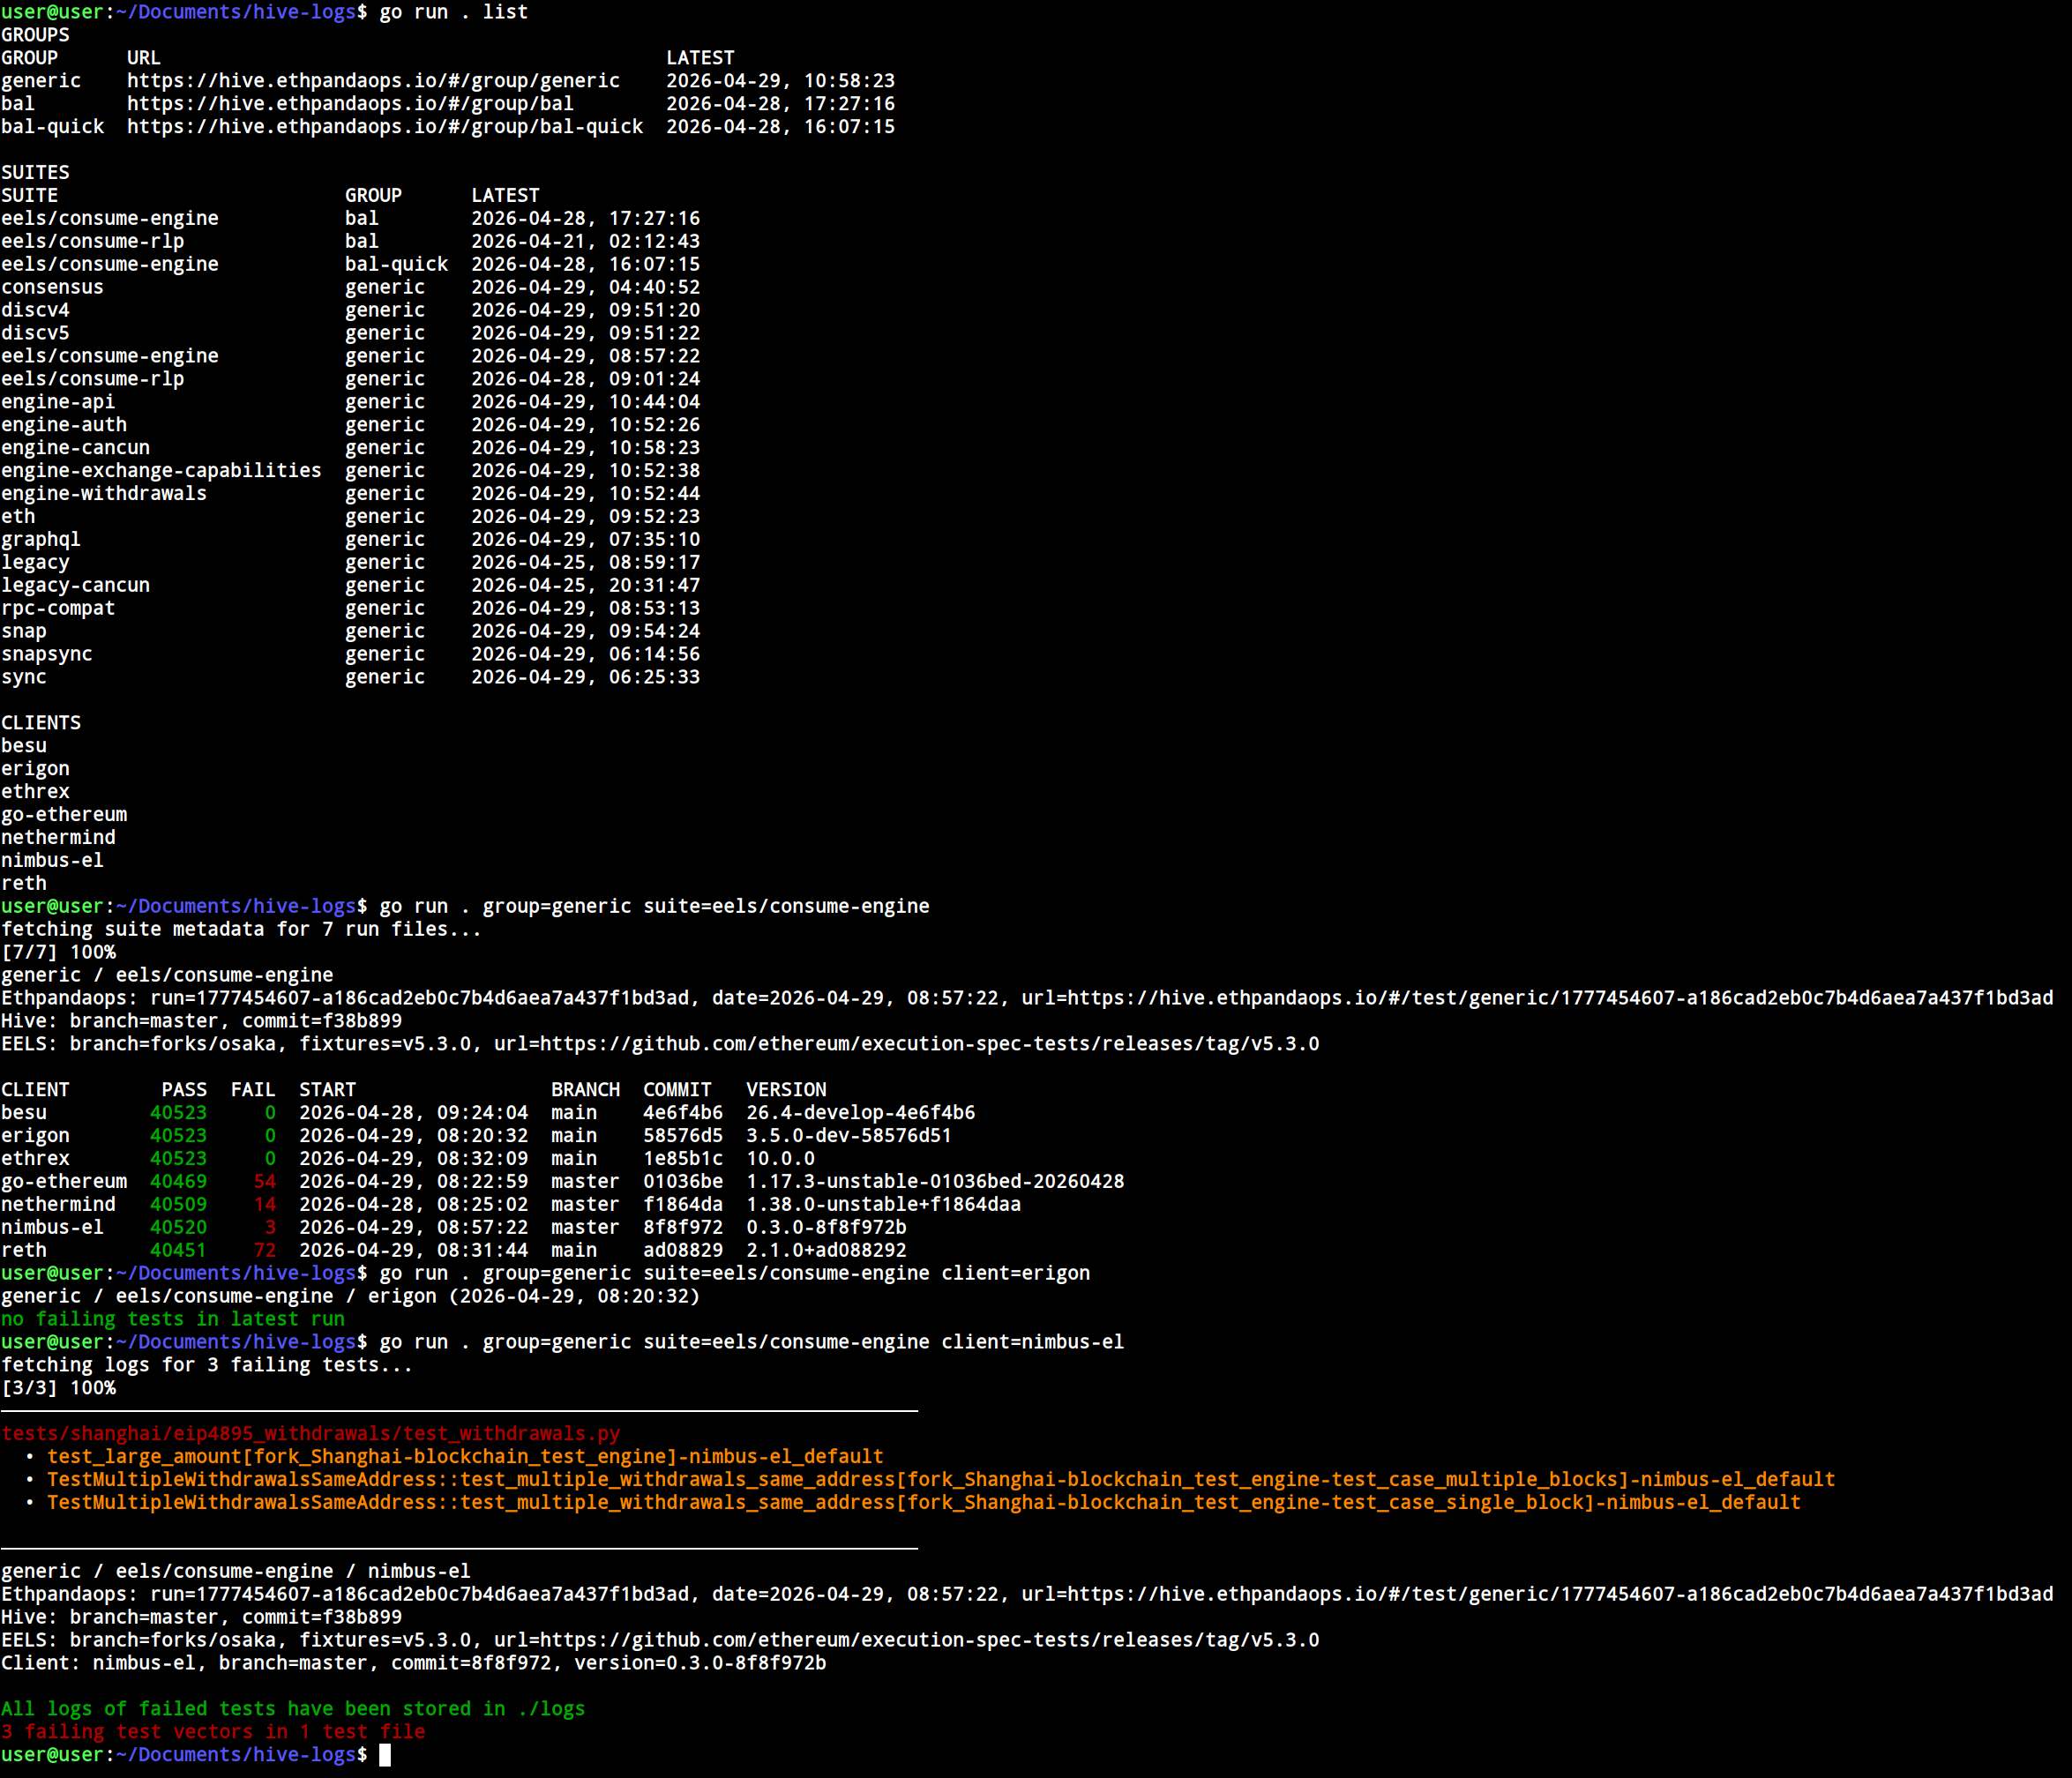
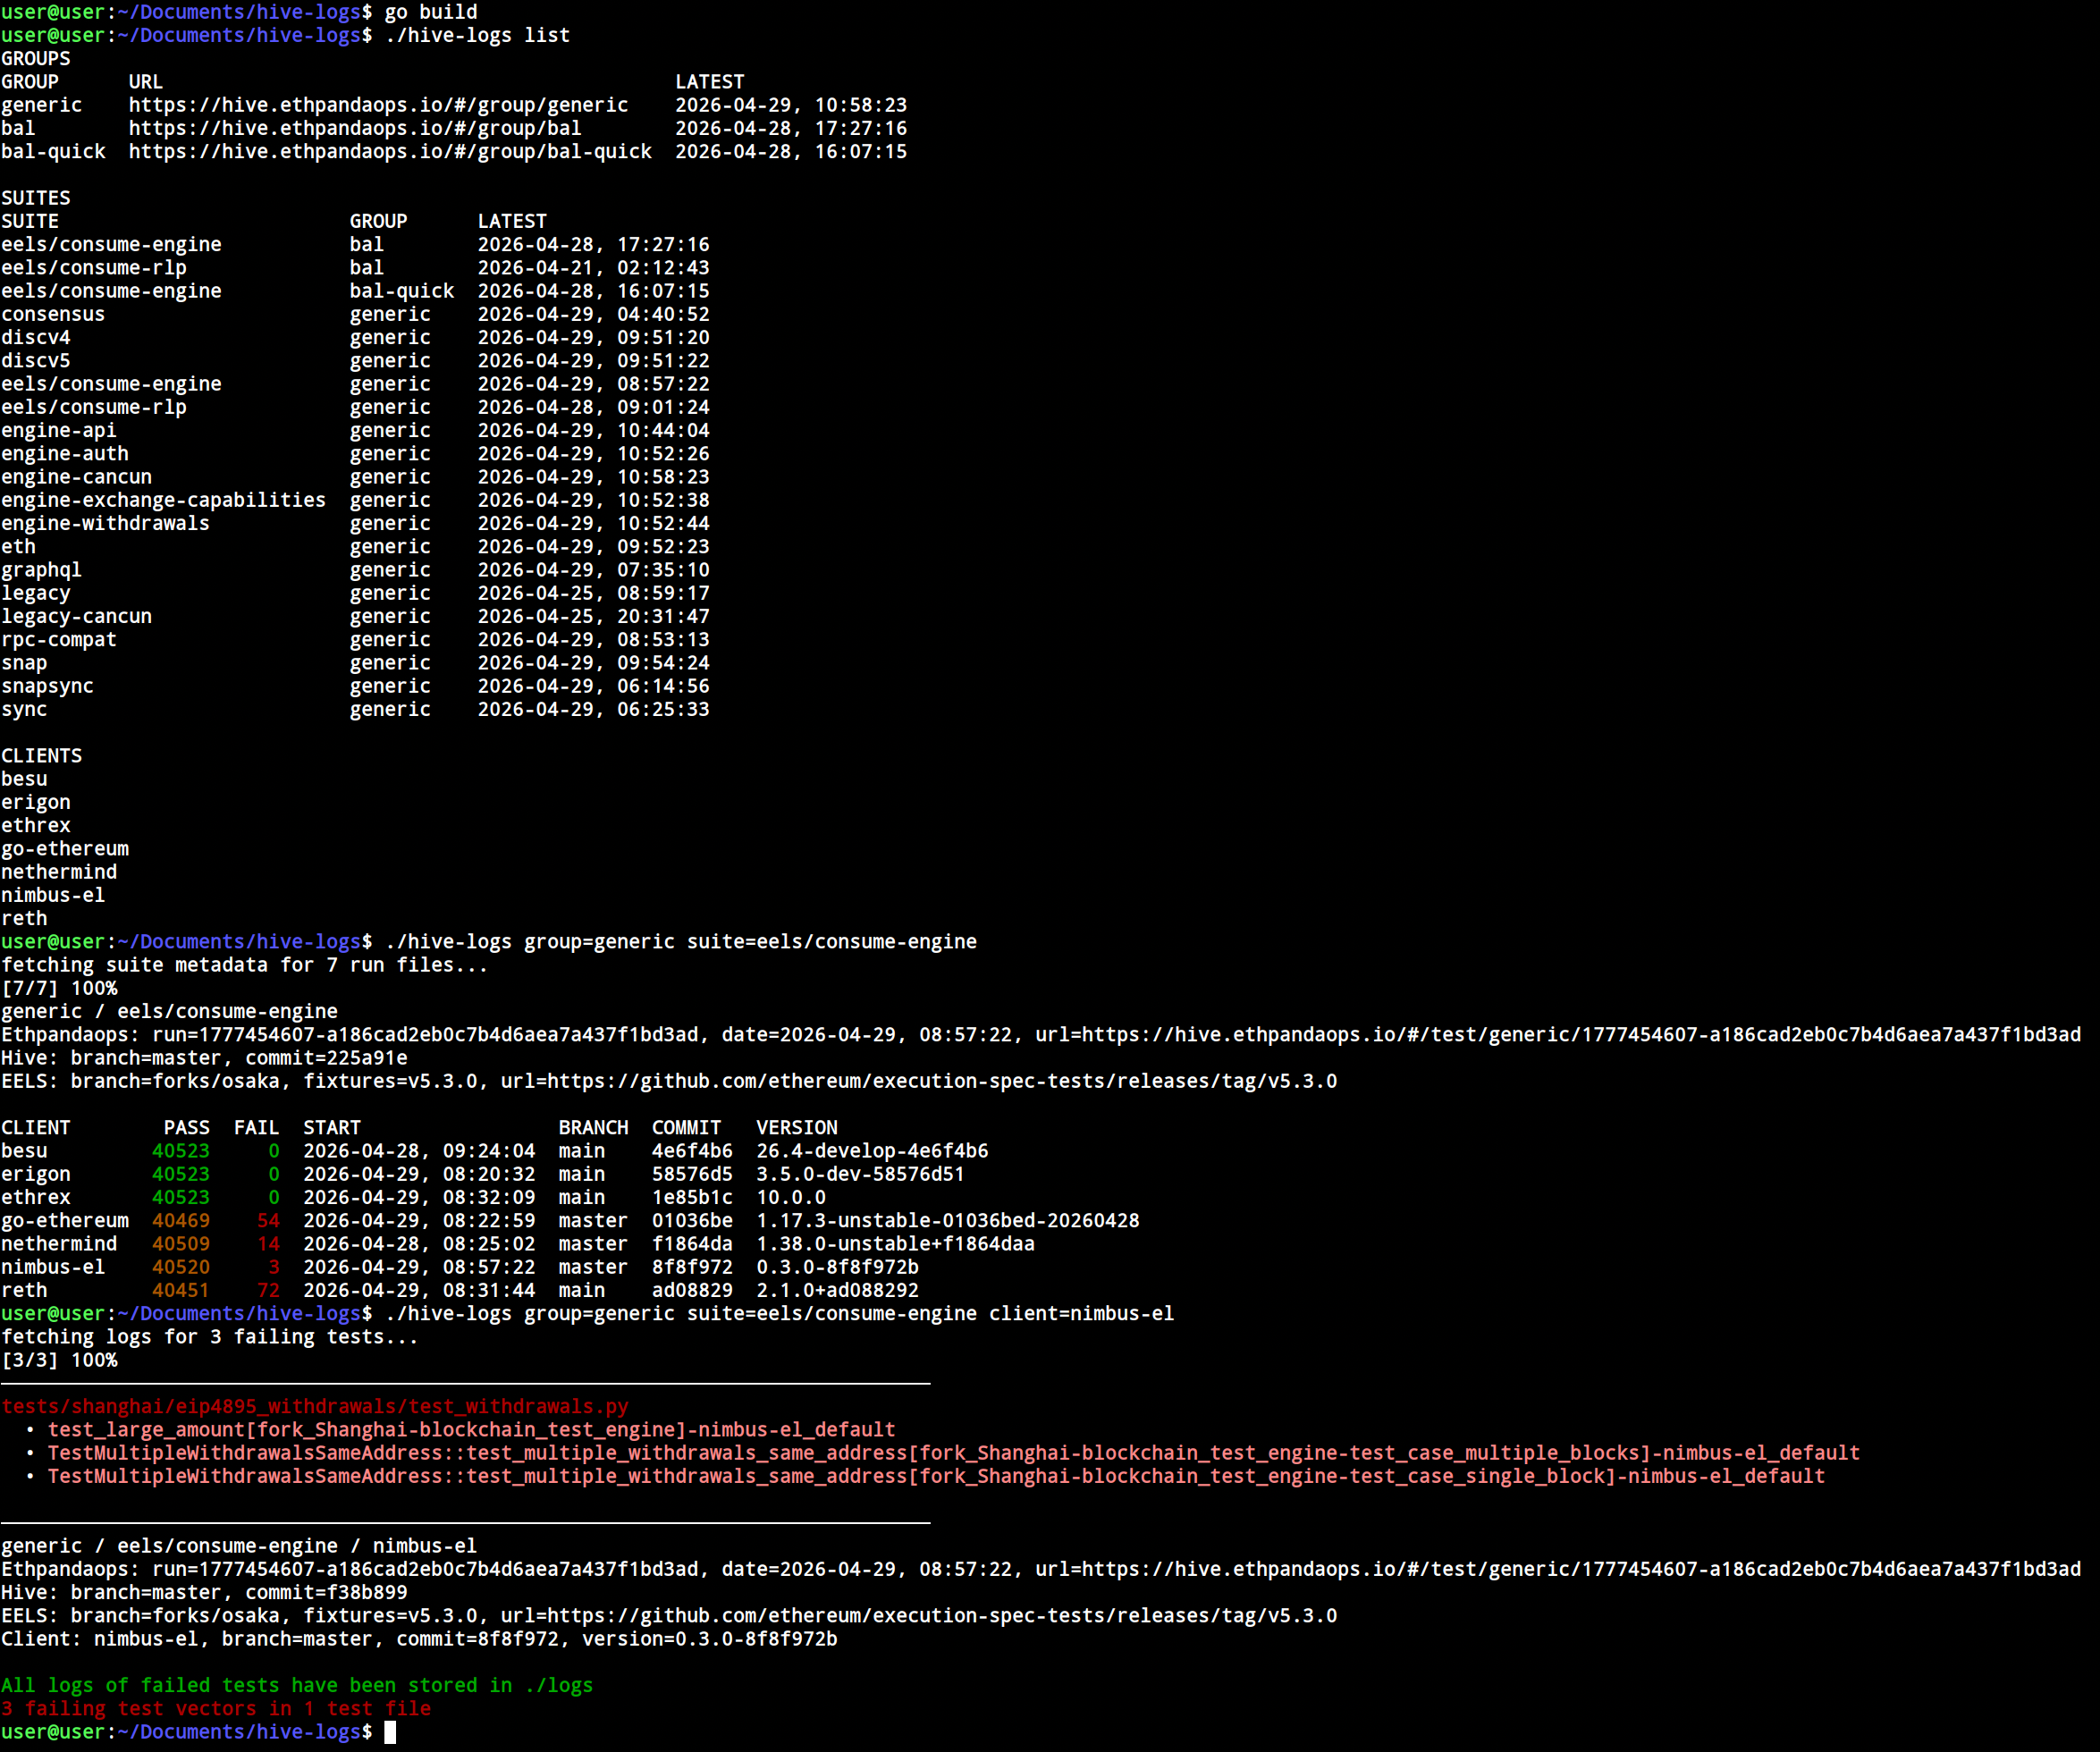
chore: usability improvements

Changed region(s): [[0.0, 0.0, 0.9945, 0.9959]]

diff --git a/commands_test.go b/commands_test.go
@@ -345,14 +345,14 @@ func TestPrintBundlesGroupedByFile(t *testing.T) {
 	var buf bytes.Buffer
 	printBundlesGroupedByFile(&buf, bundles, true)
 	out := buf.String()
-	if !strings.Contains(out, ansiRed+"tests/foo.py"+ansiReset+"\n  • "+ansiOrange+"test_a[x]"+ansiReset) {
-		t.Fatalf("missing red foo.py header with orange-labeled bullet:\n%s", out)
+	if !strings.Contains(out, ansiRed+"tests/foo.py"+ansiReset+"\n  • "+ansiCoral+"test_a[x]"+ansiReset) {
+		t.Fatalf("missing red foo.py header with coral-labeled bullet:\n%s", out)
 	}
-	if !strings.Contains(out, "  • "+ansiOrange+"test_a[y]"+ansiReset) {
-		t.Fatalf("missing second foo.py orange-labeled vector:\n%s", out)
+	if !strings.Contains(out, "  • "+ansiCoral+"test_a[y]"+ansiReset) {
+		t.Fatalf("missing second foo.py coral-labeled vector:\n%s", out)
 	}
-	if !strings.Contains(out, ansiRed+"tests/bar.py"+ansiReset+"\n  • "+ansiOrange+"test_z"+ansiReset) {
-		t.Fatalf("missing red bar.py header with orange-labeled bullet:\n%s", out)
+	if !strings.Contains(out, ansiRed+"tests/bar.py"+ansiReset+"\n  • "+ansiCoral+"test_z"+ansiReset) {
+		t.Fatalf("missing red bar.py header with coral-labeled bullet:\n%s", out)
 	}
 	if !strings.Contains(out, ansiGrey+strings.Repeat("─", 80)+ansiReset) {
 		t.Fatalf("missing grey divider between groups:\n%s", out)
@@ -381,8 +381,8 @@ func TestPrintBundlesGroupedByFileHidesLogPathsByDefault(t *testing.T) {
 	var buf bytes.Buffer
 	printBundlesGroupedByFile(&buf, bundles, false)
 	out := buf.String()
-	if !strings.Contains(out, ansiRed+"tests/foo.py"+ansiReset+"\n  • "+ansiOrange+"test_a"+ansiReset) {
-		t.Fatalf("missing red header + orange bullet:\n%s", out)
+	if !strings.Contains(out, ansiRed+"tests/foo.py"+ansiReset+"\n  • "+ansiCoral+"test_a"+ansiReset) {
+		t.Fatalf("missing red header + coral bullet:\n%s", out)
 	}
 	for _, banned := range []string{"hive log:", "client log:", "reproduce:", "logs/foo/a"} {
 		if strings.Contains(out, banned) {
@@ -401,8 +401,8 @@ func TestPrintBundlesGroupedByFileNoFile(t *testing.T) {
 	if strings.Contains(out, "  •") {
 		t.Fatalf("unexpected indentation when no file is present:\n%s", out)
 	}
-	if !strings.HasPrefix(out, "• "+ansiOrange+"client launch"+ansiReset+"\n") {
-		t.Fatalf("expected unindented orange-labeled bullet, got:\n%s", out)
+	if !strings.HasPrefix(out, "• "+ansiCoral+"client launch"+ansiReset+"\n") {
+		t.Fatalf("expected unindented coral-labeled bullet, got:\n%s", out)
 	}
 }
 

diff --git a/format.go b/format.go
@@ -109,8 +109,9 @@ func formatHMS(d time.Duration) string {
 const (
 	ansiGreen  = "\x1b[32m"
 	ansiRed    = "\x1b[31m"
+	ansiYellow = "\x1b[33m"
 	ansiGrey   = "\x1b[90m"
-	ansiOrange = "\x1b[38;5;208m"
+	ansiCoral  = "\x1b[38;5;210m"
 	ansiReset  = "\x1b[0m"
 )
 
@@ -181,8 +182,16 @@ func textCell(text string) tableCell {
 	return tableCell{text: text, plain: text}
 }
 
-func passCell(n int) tableCell {
-	return colorIntCell(n, n != 0)
+func passCell(passes, fails int) tableCell {
+	color := ansiYellow
+	switch {
+	case passes == 0:
+		color = ansiRed
+	case fails == 0:
+		color = ansiGreen
+	}
+	plain := strconv.Itoa(passes)
+	return tableCell{text: fmt.Sprintf("%s%d%s", color, passes, ansiReset), plain: plain}
 }
 
 func failCell(n int) tableCell {

diff --git a/main_test.go b/main_test.go
@@ -208,6 +208,14 @@ func TestQueryColorsPassFailCounts(t *testing.T) {
 			Start:    time.Date(2026, 4, 27, 7, 32, 49, 0, time.UTC),
 			FileName: "suite-b.json",
 		},
+		{
+			Name:     "suite-c",
+			Passes:   2,
+			Fails:    0,
+			Clients:  []string{"go-ethereum"},
+			Start:    time.Date(2026, 4, 27, 6, 15, 0, 0, time.UTC),
+			FileName: "suite-c.json",
+		},
 	})
 	defer server.Close()
 
@@ -219,10 +227,11 @@ func TestQueryColorsPassFailCounts(t *testing.T) {
 	}
 
 	for _, want := range []string{
-		ansiGreen + "1" + ansiReset,
+		ansiYellow + "1" + ansiReset,
 		ansiRed + "1" + ansiReset,
 		ansiRed + "0" + ansiReset,
 		ansiGreen + "0" + ansiReset,
+		ansiGreen + "2" + ansiReset,
 	} {
 		if !strings.Contains(output, want) {
 			t.Fatalf("query output does not contain colored count %q:\n%s", want, output)

diff --git a/commands.go b/commands.go
@@ -445,7 +445,7 @@ func listSuiteClients(ctx context.Context, client *Client, group, suite string, 
 	for _, e := range out {
 		row := []tableCell{
 			textCell(e.Client),
-			passCell(e.Passes),
+			passCell(e.Passes, e.Fails),
 			failCell(e.Fails),
 			textCell(formatTime(e.RunStart)),
 		}
@@ -630,7 +630,7 @@ func printBundlesGroupedByFile(w io.Writer, bundles []BundleSummary, showLogPath
 			}
 			hasBullet := label != ""
 			if hasBullet {
-				fmt.Fprintf(w, "%s• %s%s%s\n", bulletIndent, ansiOrange, label, ansiReset)
+				fmt.Fprintf(w, "%s• %s%s%s\n", bulletIndent, ansiCoral, label, ansiReset)
 			}
 			if showLogPaths {
 				pathIndent := bulletIndent
@@ -858,7 +858,7 @@ func listGroupRuns(ctx context.Context, client *Client, group string, qf queryFl
 			textCell(formatTime(run.Start)),
 			textCell(run.Name),
 			textCell(strings.Join(normalizedSortedClients(run.Clients), ",")),
-			passCell(run.Passes),
+			passCell(run.Passes, run.Fails),
 			failCell(run.Fails),
 		}
 		if qf.showFiles {